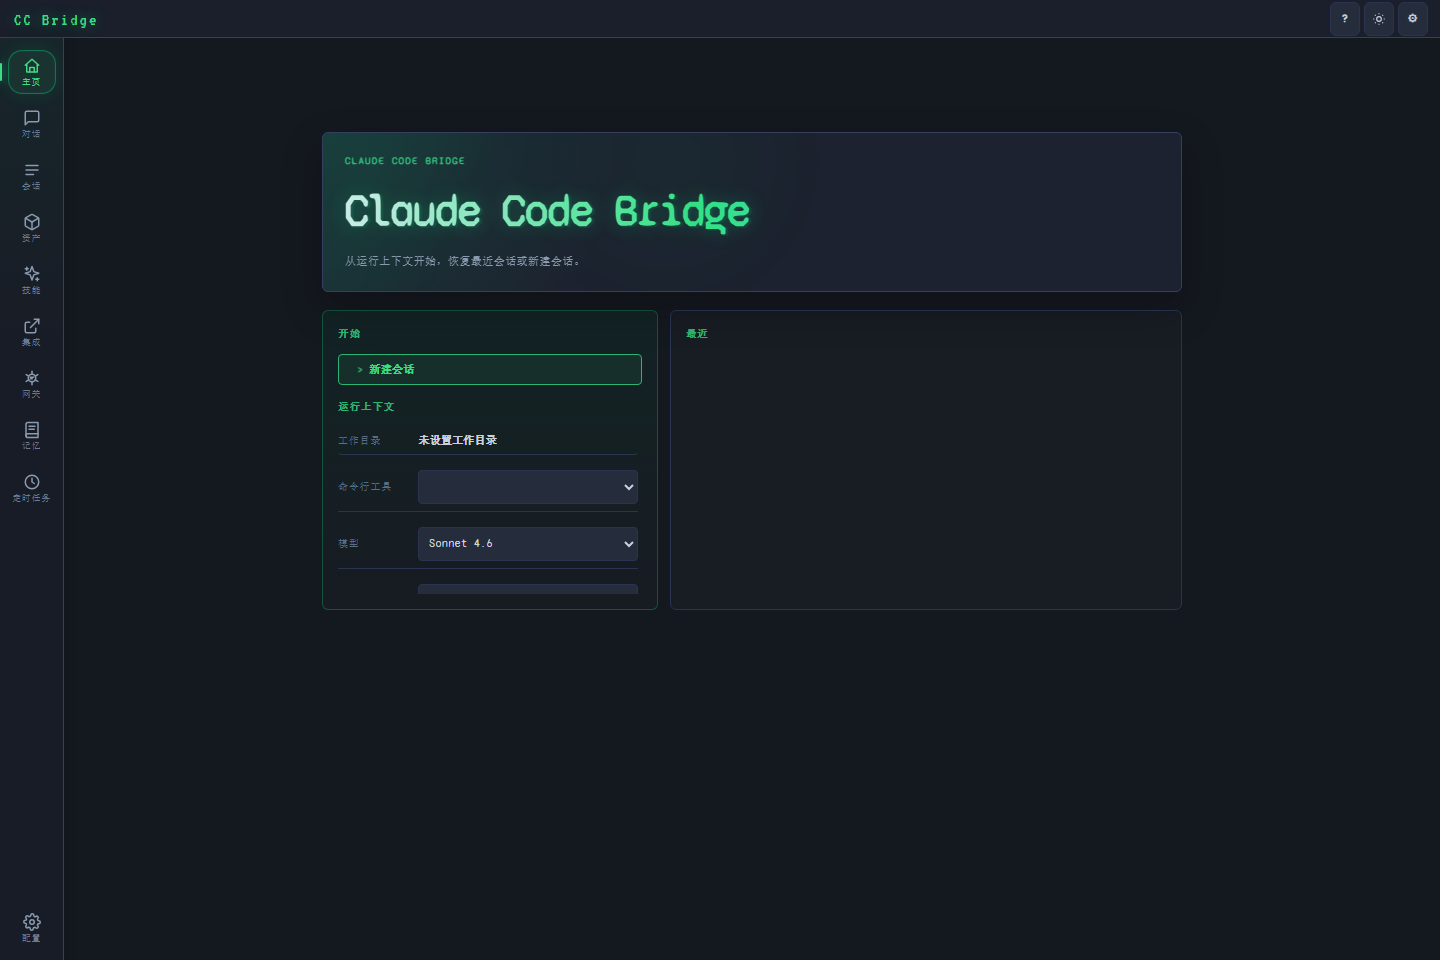
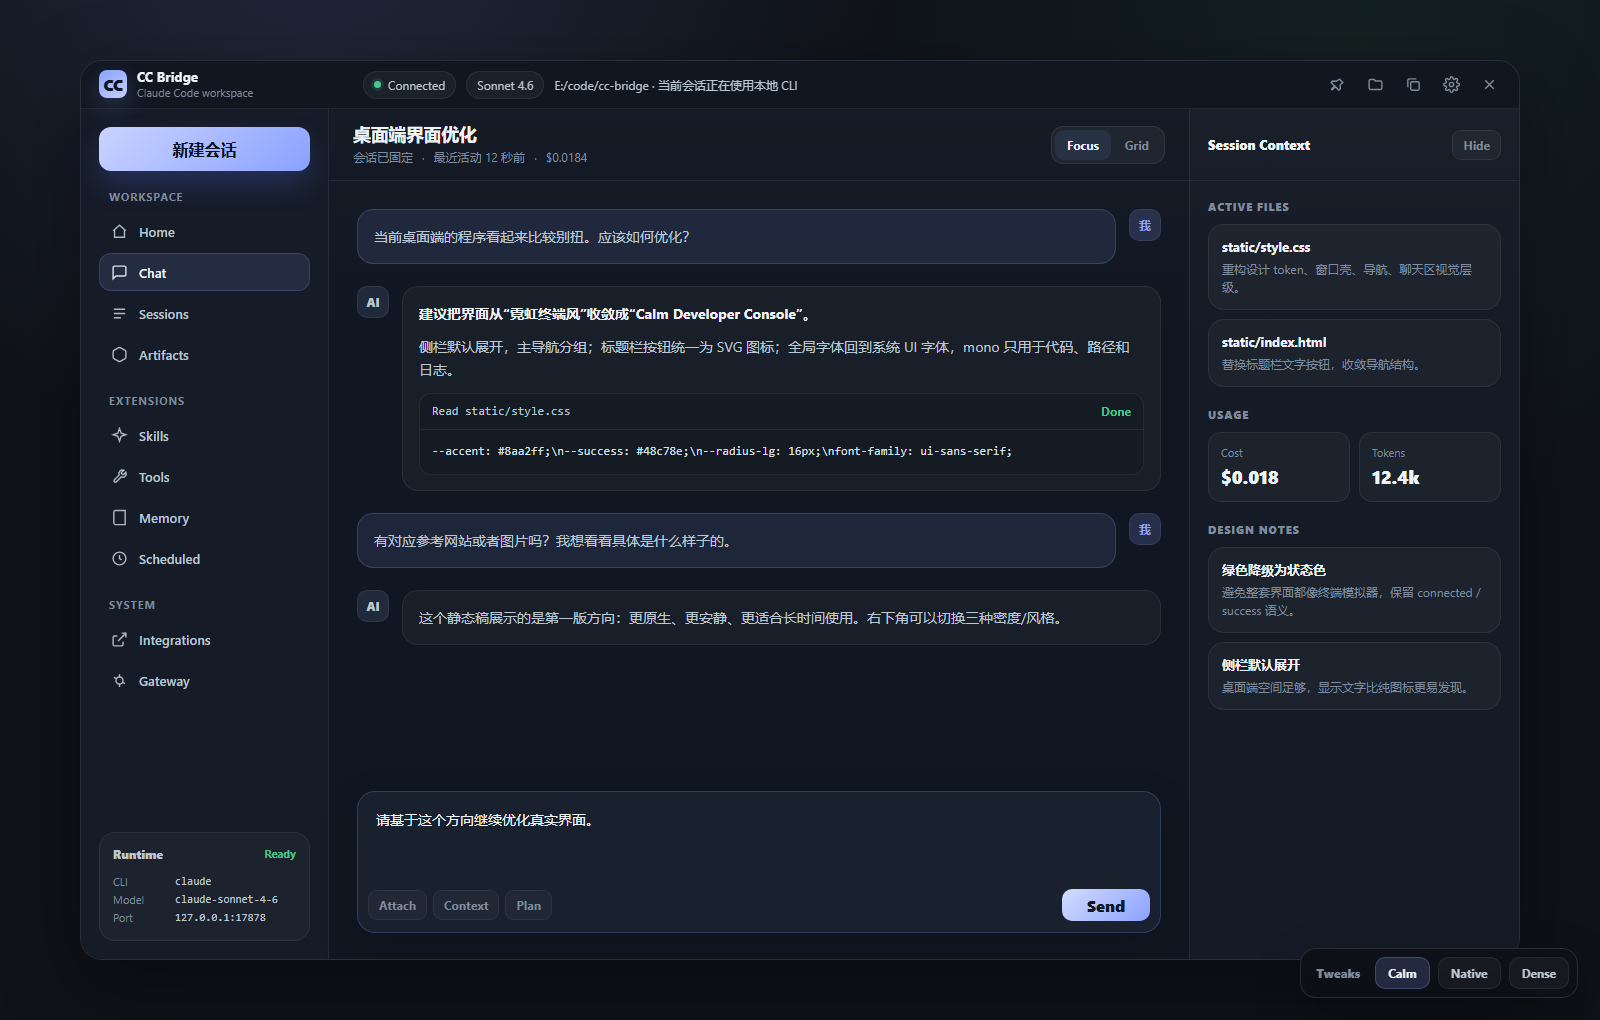
完善 README：补充多页签工作台、记忆归纳、定时任务、飞书网关；更新桌面预览图，删除移动端截图
- README 增补：多页签工作台（Focus/Grid、后台会话不打断）、记忆归纳与可视化（记忆辅助模型抽取+整理去重纠错+jieba 检索）、定时任务、飞书消息网关
- 桌面端预览图用最新 desktop-ui-preview.html 重新截图
- 删除移动端截图（preview-mobile.png 及 mobile-*-current.*），README 移除移动端预览引用

diff --git a/README.md b/README.md
@@ -8,13 +8,7 @@ CC Bridge 是一个面向 Claude Code 使用者的本地可视化界面。
 
 ## 预览
 
-### 桌面端
-
 ![桌面端预览](docs/preview-desktop.png)
-
-### 移动端
-
-![移动端预览](docs/preview-mobile.png)
 
 ## 为什么使用 CC Bridge
 
@@ -38,15 +32,15 @@ CC Bridge 的目标是：让 Claude Code 的日常使用更直观、更连续、
 
 ### 多会话管理
 
-在侧边栏中查看、恢复、重命名、置顶或删除历史会话。适合同时维护多个项目、多个任务分支或多个上下文。
+在侧边栏中查看、恢复、重命名、置顶或删除历史会话，也可以把多个会话以子页签形式同时打开在主聊天区，边跑边切、互不打断。适合同时维护多个项目、多个任务分支或多个上下文。
 
 ### 网关入口
 
 通过网关能力统一连接本地 Claude Code CLI、桌面端和浏览器界面，让不同使用入口共享同一套本地服务与会话上下文。
 
-### LLM Wiki 与记忆可视化
+### LLM Wiki 与记忆归纳
 
-把项目知识、常用上下文、会话沉淀和记忆内容整理成更容易浏览的可视化资料，帮助团队或个人快速理解项目背景、关键决策和常见工作流。
+把项目知识、常用上下文、会话沉淀和记忆内容整理成更容易浏览的可视化资料，并由记忆辅助模型自动归纳值得长期记住的偏好与事实，帮助团队或个人快速理解项目背景、关键决策和常见工作流。
 
 ### 文件与上下文整理
 
@@ -171,6 +165,10 @@ npm run desktop:dist:win
 
 自动读取并展示 Claude Code 会话。你可以恢复之前的任务，也可以对会话进行重命名、置顶、删除或切换工作目录。
 
+### 多页签工作台
+
+在聊天区同时打开多个会话作为子页签，当前会话展开占满主区，其他会话收起为状态页签并实时显示进度（idle / running / tool / done / error）。也可以切换到 Grid 模式并排查看多个会话，-pane 宽度可拖拽调整。响应中的会话可在后台继续运行，切换页签不打断它。
+
 ### 工作目录管理
 
 每个会话都可以绑定工作目录。适合在多个代码项目之间切换，减少手动进入目录和复制路径的操作。
@@ -191,13 +189,21 @@ npm run desktop:dist:win
 
 提供统一的本地访问入口，让桌面端、浏览器端和 Claude Code CLI 更自然地协同使用。你可以在不同设备或界面之间切换，同时保留本地运行和本地会话管理的特性。
 
+### 飞书消息网关
+
+可选接入飞书机器人，把飞书聊天作为 Claude Code 的一个入口：支持扫码创建 Bot、按聊天维度维护独立会话、`/new` `/reset` `/status` `/stop` 等聊天内命令、白名单与忙碌模式。依赖飞书 SDK `lark-oapi`，未安装时自动屏蔽网关功能，不影响本体使用。
+
+### 定时任务
+
+创建周期性 agent 任务：每隔 N 分钟、每天固定时间或一次性运行。任务在指定工作目录 / 模型 / CLI / 远程目标下按计划向 Claude Code 发送一条 prompt，默认每次新建对话避免上下文污染。结果通过 SSE 推送并出现在历史会话里。
+
 ### LLM Wiki
 
 支持把项目说明、使用经验、上下文资料和会话结论沉淀为面向 LLM 的知识资料。它可以作为团队协作时的项目 Wiki，也可以作为个人长期维护项目时的上下文索引。
 
-### 记忆可视化
+### 记忆归纳与可视化
 
-将长期记忆、项目背景、偏好设置和关键上下文以更直观的方式展示出来，方便查看、理解和维护，让后续会话更容易延续已有认知。
+每轮对话结束后，可由「记忆辅助模型」自动从用户消息与助手回复中抽取值得长期记住的偏好、规则和事实，写入记忆库（抽取失败时退回关键词正则兜底）。记忆页提供整理能力：用 LLM 识别跨文件重复与不准确内容，生成合并 / 改写 / 删除方案供你复核确认后写盘，删除一律保留 `.bak` 可回滚。检索侧对中文做了 jieba 分词 + 覆盖度重排，提高命中精度。记忆文件格式（Markdown + frontmatter）与 Claude Code 内置 auto memory 完全兼容。
 
 ### 多端观察
 